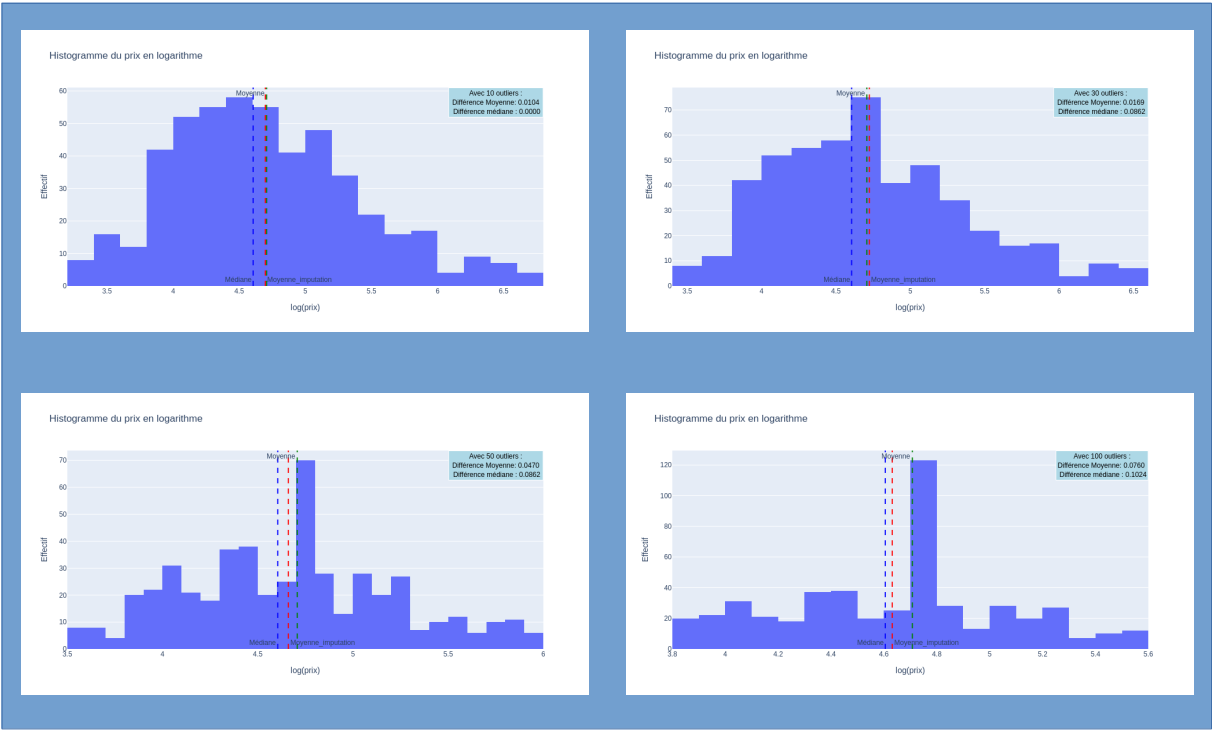
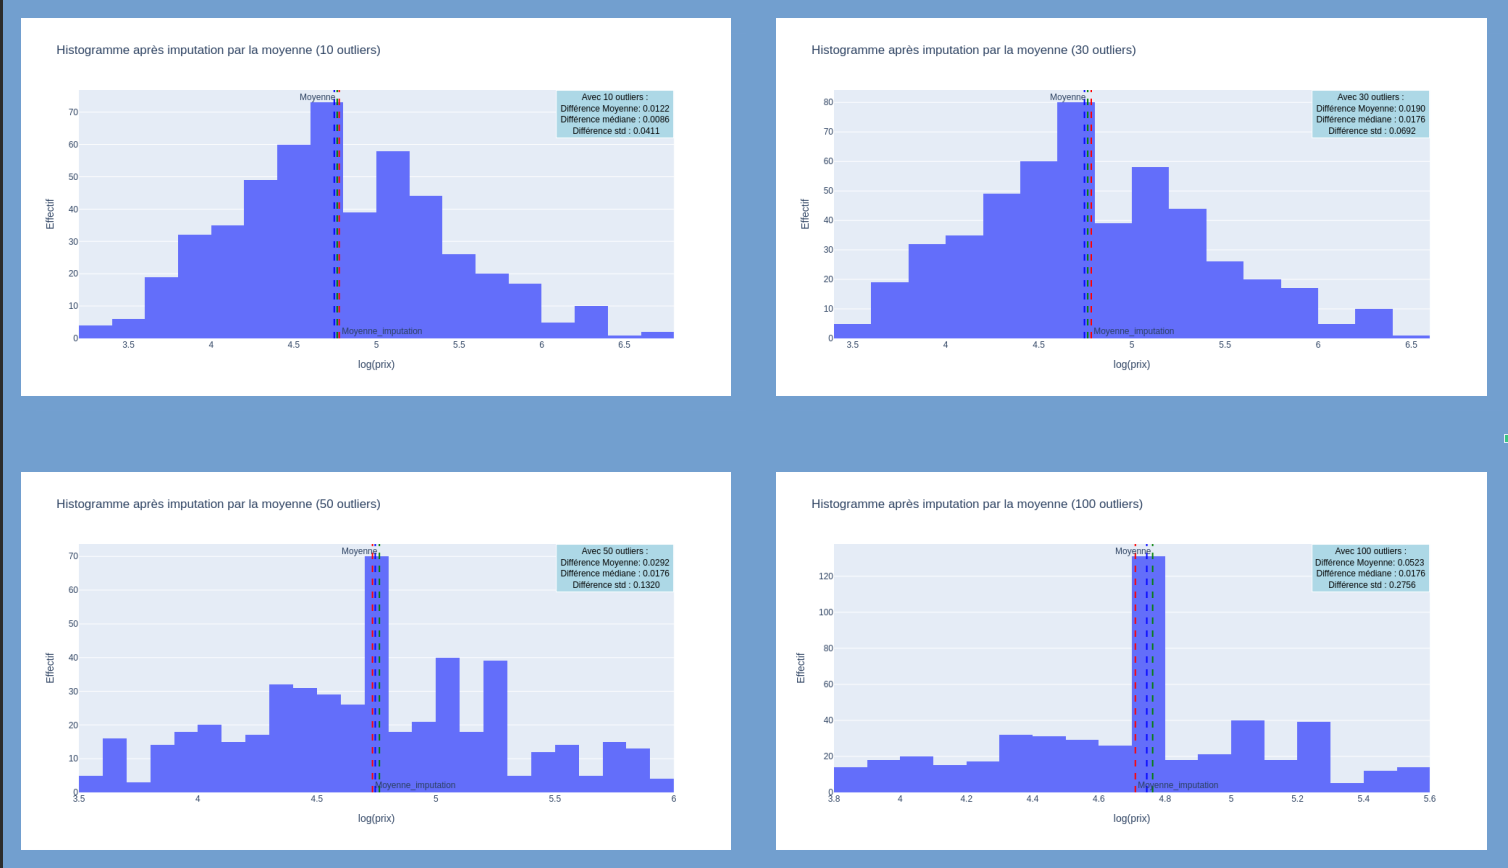
"add changes"

diff --git a/_sass/modules/_syntax.scss b/_sass/modules/_syntax.scss
@@ -13,7 +13,8 @@
   -moz-border-radius: 3px; 
   -webkit-border-radius: 3px; 
   border-radius: 3px;
-  padding: 3px !important;
+  /*padding: 3px !important;*/
+  padding-left: 5px;
   background: #343642; /*fond des code snipets*/
   color: #C1C2C3;
 }

diff --git a/_sass/breakpoints/_800up.scss b/_sass/breakpoints/_800up.scss
@@ -200,7 +200,7 @@ POST STYLING
 		position: relative;
 		margin-top: 2rem;
 
-		&:after {
+		&:before {
 			background: white;
 			content: "";
 			display: block;

diff --git a/_posts/2024-03-25-Outliers-detection.md b/_posts/2024-03-25-Outliers-detection.md
@@ -490,7 +490,13 @@ Dans le cas où les valeurs aberrantes seraient nombreuses, une méthode d'imput
 
 #### Imputation des outliers.
 ##### Imputation par un paramètre de tendance centrale. 
-Il est courant d'observer des travaux (même scientifiques) dans lesquels les valeurs manquantes et/ou les valeurs aberrantes sont remplacé par des paramètres de position. C'est une grave erreur et, je dois le dire, cette erreur à motiver ce travail. Encore une fois, gardez à l'esprit que la détection et le traitement des valeurs lointaines est nécessaire pour ne pas biaiser nos analyses : les outliers tirent la moyenne et l'écart-type, deux paramètres largement utilisés lors d'analyses inférentielles. Autrement dit, si vous chercher à diminuer l'impact de vos outliers sur votre distribution statistique, quelle idée d'aller à nouveau impacter celle-ci en imputant vos outliers avec la moyenne ou la médiane ? Il est donc clair qu'une imputation de valeurs aberrantes par la moyenne ou la médiane demande de vérifier l'impact qu'elle aura sur votre distribution. Combien même je ne recommande pas cette méthode, elle peut être intéressante à mettre en place afin d'arbitrer l'ampleur de l'impact d'une autre méthode d'imputation -e.g. les k plus proches voisins. (Bien sûr, cela vaut pour l'imputation des données manquantes.) Pour illustrer ce point, je vais extraire un sous-échantillon de 500 individus de notre distribution d'origine. 
+Il est courant d'observer des travaux (même scientifiques) dans lesquels les valeurs manquantes et/ou les valeurs aberrantes sont remplacé par des paramètres de position tel que la moyenne ou la médiane (variable quantitative) et le mode (variable catégorielle). Cette méthode est souvant critiquée. En effet, imputer une données par la moyenne ou la médiane de la série n'est pas une bonne pratique dans le cas d'un point aberrant. Tout d'abord parce que la moyenne est impactée par les valeurs extrêmes donc si la valeur aberrante est très élevée - e.g. 1428 minutes - la moyenne de la série ne reflète pas celle du phénomène étudié. Il peut être plus prudent de retirer cette valeur aberrante avant de calculer la moyenne (médiane) de la série pour l'imputer à votre observation. Ceci étant, l'imputation par la moyenne a tendance à **gonfler** la médiane et l'**écart-type**. Il en va de même pour l'imputation par la médiane. Pour l'exprimer différemment, vous risquez, avec un trop grand nombre de valeurs aberrantes, d'introduire un nouveau biais dans vos analyses et donc d'apporter des conclusions erronées. 
+
+Pour cette raison, je conseille d'évaluer la qualité de votre méthode d'imputation une fois réalisée. Pour cela on peut comparer les paramètres tels que la moyenne, la médiane et l'écart-type avant et après l'imputation. En ègle générale, je choisis l'imputation qui est la plus protectrice à l'égard de la distribution et particulièrement de l'écart-type. Notamment, je compare toujours plusieurs méthodes d'imputation : médiane, moyenne, k plus proches voisins, entre autres. 
+
+(Cela vaut aussi pour l'imputation de données manquantes.)
+
+Pour illustrer ce point, je vais extraire un sous-échantillon de 500 individus de notre distribution d'origine. Nous allons comparer, pour chaque méthode d'imputation, la médiane, la moyenne et l'écart-type, avant et après imputation. On considèrera successivement, 10 ,50 et 100 valeurs aberrantes et trois méthodes d'imputation des données : médiane, moyenne et k plus proches voisins.
 
 ```python
 data = df.sample(500, ignore_index=True)
@@ -512,26 +518,14 @@ On observe une distribution relativement identique à celle de l'échantillon co
 
 ![Histogramme du logarithme des prix des logements Airbnb \(sous-échantillon, n=500\), Auteur.](/assets/img/outliers_detection/histogram_subsample.png)
 
-![Histogramme]({{ site.baseurl }}/assets/img/outliers_detection/histogram_subsample.png)
+![](/assets/img/outliers_detection/histogram_subsample.png)    
+*Histogramme du prix des logements Airbnb (en logarithme, sous-échantillon de 500 individus).* 
 
 Afin d'illustrer mon propos je vous propose d'observer l'évolution de la distribution à mesure que le nombre d'outliers croît et que ces derniers sont imputer par la moyenne de la série initiale, soit 4.7075. Nous allons considérer que successivement 10, 30, 50 et 100 outliers se trouvent dans les queues de notre distribution. Sur chaque graphique, la médiane initiale sera représentée en bleue, la moyenne initiale en rouge et la moyenne après imputation en vert. Voici les graphiques représentant les distributions après imputation des outliers par la moyenne :
 
-![Histogramme après imputation de 10 outliers par la moyenne.](/assets/img/outliers_detection/histogram_10outliers.png)
-![Histogramme]({{ site.baseurl }}/assets/img/outliers_detection/histogram_10outliers.png)
-
-![Histogramme après imputation de 30 outliers par la moyenne.](/assets/img/outliers_detection/histogram_30outliers.png)
-![Histogramme]({{ site.baseurl }}/assets/img/outliers_detection/histogram_30outliers.png)
-
-![Histogramme après imputation de 50 outliers par la moyenne.](/assets/img/outliers_detection/histogram_50outliers.png)
-![Histogramme]({{ site.baseurl }}/assets/img/outliers_detection/histogram_50outliers.png)
-
-![Histogramme après imputation de 100 outliers par la moyenne.](/assets/img/outliers_detection/histogram_100outliers.png)
-![Histogramme]({{ site.baseurl }}/assets/img/outliers_detection/histogram_100outliers.png)
-
 ![Résultat de l'imputation des outliers par la moyenne \(sous-échantillon, n=500\).](/assets/img/outliers_detection/histogram_imputation_moyenne.png)
-![Histogramme]({{ site.baseurl }}/assets/img/outliers_detection/histogram_imputation_moyenne.png)
 
-Principales conclusions de cette démonstration.
+Conclusions :
 
 À mesure que le **nombre d'outliers croît**, l'impact de l'imputation par la moyenne se fait plus grand :
 - la moyenne passe de 4.7075 à 4.6315 ;
@@ -541,16 +535,32 @@ Ce dernier point est intéressant puisque la médiane s'est déplacée vers la m
 
 La modification significative de la moyenne de l'échantillon, et, par voie de conséquence, de notre distribution, nous permettent d'affirmer que cette dernière **n'est plus représentative des mesures récoltées**. Aussi, employer ce type d'imputation à mesure que l'échantillon croît peut conduire à de **fausses conclusions** : nos analyses seront biaisées. 
 
-Voyons l'impact d'une imputation par la médiane.
-##### Imputation par KNN.
-Une méthode d'imputation des données relativement protectrice à l'égard de la distribution est celle des K-Nearest Neighboors (KNN). Cette méthode remplace la valeur aberrante par la moyenne de ces k plus proches voisins. Ces k plus proches voisins sont ceux pour lesquelles ont observe des valeurs semblables hors valeurs manquantes.
+Voyons l'impact d'une imputation par la médiane. Nous utilisons le même échantillon de 500 individus. Puis nous remplaçons successivement 10, 30, 50 et 100 points extrêmes par la médiane de la distribution d'origine. La figure suivante reprend l'évolution de la distribution à mesure que le nombre de points extrêmes imputés augmente (la médiane après imputation est représentée en vert).  
+
+![Résultat de l'imputation des outliers par la moyenne \(sous-échantillon, n=500\).](/assets/img/outliers_detection/histogram_imputation_mediane.png)
+
+Conclusions : 
+1. Pas d'impact sur la médiane ; ce qui est intuitif et évident compte tenu de la construction de la médiane. 
+2. La moyenne est tout autant impacté que lors de l'imputation par la moyenne. 
+3. L'écart-type de la distribution connait une variation importante. 
+Autrement dit, l'imputation par la médiane n'est pas plus conservatrice à l'égard de la distribution que l'imputation par la moyenne. On observe une déformation importante de notre distribution (moyenne et écart-type) qui ne reflète plus le phénomène étudié. 
+
+Ainsi, avant d'imputer vos données avec la moyenne ou la médiane, vérifier l'impact que celle-ci aura sur votre distribution, sinon vous risquez de fausser les conclusions de vos analyses. Personnellement, j'évite d'utiliser ces paramètres de tendances centrales pour remplacer les valeurs aberrantes. Plutôt, j'utilise ces méthodes comme une référence pour évaluer la qualité d'une imputation par les *k plus proches voisins*, par exemple. 
+
+##### Imputation par les k plus proches voisins.
+Une méthode d'imputation des données relativement protectrice à l'égard de la distribution est celle des K-Nearest Neighboors (KNN). Cette méthode remplace la valeur aberrante par la moyenne de ces k plus proches voisins - ou la classe majoritaire si il s'agit d'une variable catégorielle. Ces k plus proches voisins sont ceux pour lesquelles ont observe des valeurs semblables hors valeurs manquantes. Notez que cette algorithme utilise la distance (euclidienne, par exemple) pour comparer les points entre eux. L'échelle de mesure des variables peut donc affecter les performances de l'algorithme ainsi que les prédictions. Il faut donc normaliser l'ensemble des varaibles quantitatives.
 
 > **Pour résumer, trois méthodes sont à votre disposition pour traiter un point aberrant : trouver/comprendre la source de l'erreur, supprimer les points en question, changer leur valeur via une méthode d'imputation statistique.**
 
 ### Traitement des points extrêmes.
-En ce qui concerne le traitement des points extrêmes, la méthode d'imputaiton est à proscrire. De plus, puisque vous avez qualifié ces points d'extrêmes, vous en connaissez la raison -la source de cette extremité n'est plus à chercher. Aussi, compte tenu de votre connaissance métier, il vous faudra choisir entre retirer ces points de votre analyse ou les intégrer. En effet, leur intérêt pour l'analyse pêut être primordiale ou inexistant. Si vous réaliser une régression pour comprendre l'impcat du sport sur le poids chez les étudiants, il se peut que vous observiez des sportifs professionnels dont le temps consacré par semaine à la pratique est très élevé. Ces individus peuvent certes être jugés comme des points extrêmes mais ne doivent pas être remplacés , ni supprimés de votre base de données. Puisque l'objet de votre analyse inférentielle n'est pas de comprendre l'impact du sport chez les sportif de haut niveau mais plutôt chez les étudiants en générale, il faudra considérer de mener l'analyse sans et avec ces individus (ou une analyse séparé pour chacun des deux groupes). Cela vous permettra d'appréhender l'impact de ces points extrêmes sur votre régression. Particulièrement, si vous intégrez ces points, vous devez vous assurer qu'ils ne sont pas des points leviers, dans quel cas, ils entrainent un sur-ajustement du modèle et donc une estimation de l'impact du sport sur le poids qui serait trompeuse.
+En ce qui concerne le traitement des points extrêmes, vous ne devez pas les imputer par une autre valeur puisque celle observer, combien même atypique, est une mesure réelle et exacte du phénomène étudié/mesuré. De plus, puisque vous avez qualifié ces points d'extrêmes, vous en connaissez la raison - la source de cette extremité n'est plus à chercher. Aussi, compte tenu de votre connaissance métier, il vous faudra choisir entre retirer ces points de votre analyse ou les intégrer. Demandez-vous si ce point fait partie de la **population ciblée par votre question de recherche**. Par exemple, si vous réaliser une régression pour comprendre l'**impcat du sport sur le poids des étudiants**, il se peut que vous observiez des **sportifs professionnels** dont le temps consacré par semaine à la pratique est très élevé. Ces individus seront certainement jugés comme des points extrêmes mais ne doivent pas être remplacés. Supposons, qu'un des étudiants soit un sportif de haut niveau. 
 
-#### Arbre de décision pour le traitement des valeurs aberrantes. 
+- Si il ne fait pas partie de votre population cible - e.g. les étudiants lambda - il peut être supprimé ; il n'a pas d'intérêt pour répondre à la question de recherche spécifiée, il pourrait fausser vos conclusions sur la population cible. Pensez tout de même à le notifier dans votre rapport d'analyse. 
+
+- Si il fait partie de votre population cible, vous allez le conserver dans votre analyse, mais avec quelques points de prudence à adopter. Je conseille de **mener une analyse avec et sans l'outlier** pour m'assurer qu'il **n'affecte pas les hypothèses** et/ou **le résultat** du modèle. Il se peut que sa présence entrave les résultats - e.g. ce point crée une association inexistante entre X et Y : le coefficient de régression ne reflète pas vraiment l'effet de X sur Y ; i.e. ce point agit comme un levier sur votre modèle, il crée un phénomène de sur-ajustement. Enfin, si les hypothèses de votre modèle ne sont pas respectées, essayez une transformation log ou racine carrée pour diminuer l'impact de cette valeur extrême. Quoi qu'il en soit, si vous en arrivez à extraire ce point de votre étude, il faudra le notifier en expliquant pourquoi ce point à été exclu de l'analyse. 
+
+#### Arbre de décision pour le traitement des valeurs aberrantes.
+
 ![arbre de décison](/assets/img/decision_tree.png)
 
 Merci d'avoir lu cette note ! J'espère qu'elle vous a plu. À bientot !

diff --git a/about.md b/about.md
@@ -7,8 +7,8 @@ title: About Me
 	<h1 class="pageTitle"></h1>
 	<p class="intro">Data scientist, passionné par la statistique et les données, je suis le créateur de la chaîne <a href="https://www.linkedin.com/in/Statisserie"><b>Statisserie</b></a>. Mon objectif : acquérir des données et les transformer en informations claires et exploitables. </p>
 	<p> À la recherche d'une <b>expertise analytique</b> ou simplement l'envie d'explorer mes publications ? N'hésitez pas à me  <a href="mailto:jordan.nagadzina.sanchez@gmail.com">contacter</a> pour discuter de vos projets et de vos besoins en analyse de données !</p>
-	<p>   </p>
-	<p>   </p>
+	<br> 
+	<br> 
 	
 	<h1 class="pageTitle">Mon CV</h1>
 	<p> Si vous souhaitez accéder à une version détaillée de mon cv, consulter ce <a href="/assets/pdf/linkedin.pdf"><b>pdf</b></a> ou rendez-vous sur <a href="https://www.linkedin.com/in/jordannagadzina-sanchez"> <b>linkedin</b> </a>. </p>
